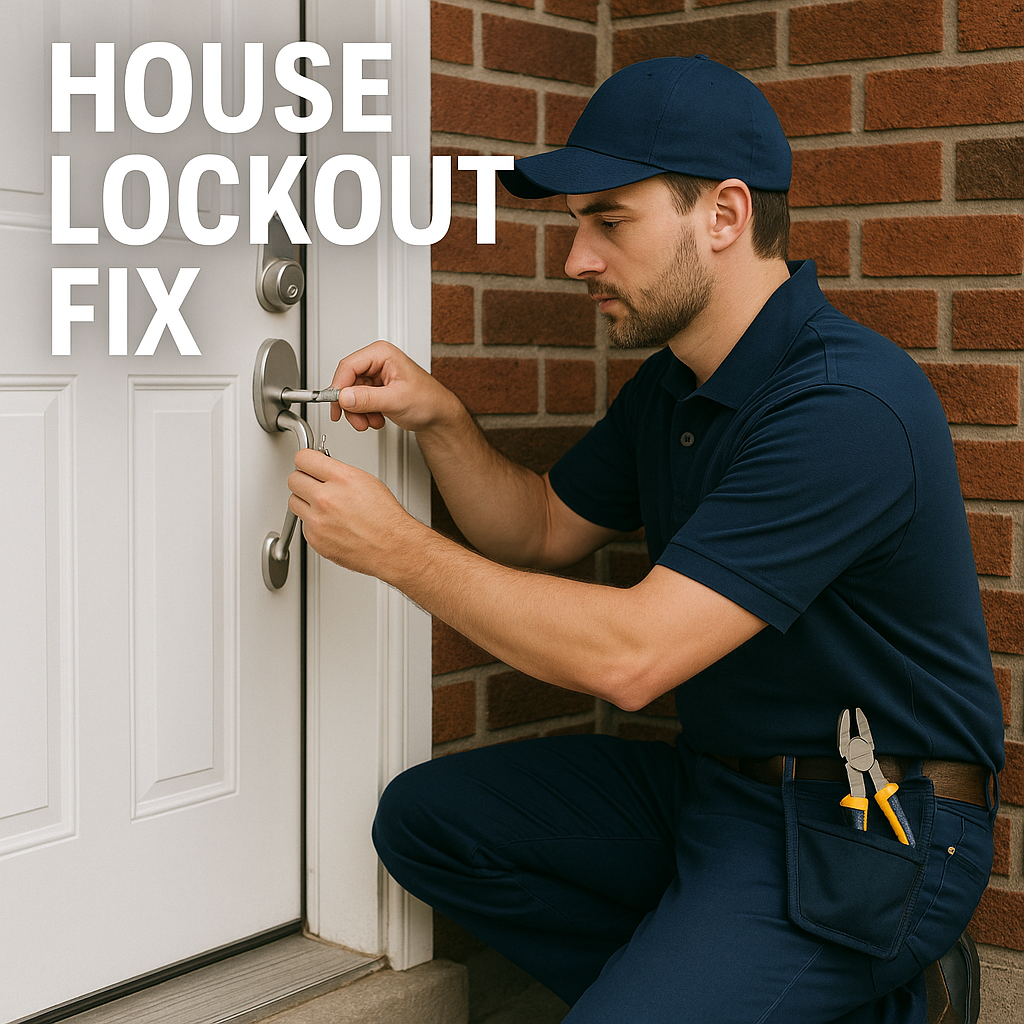
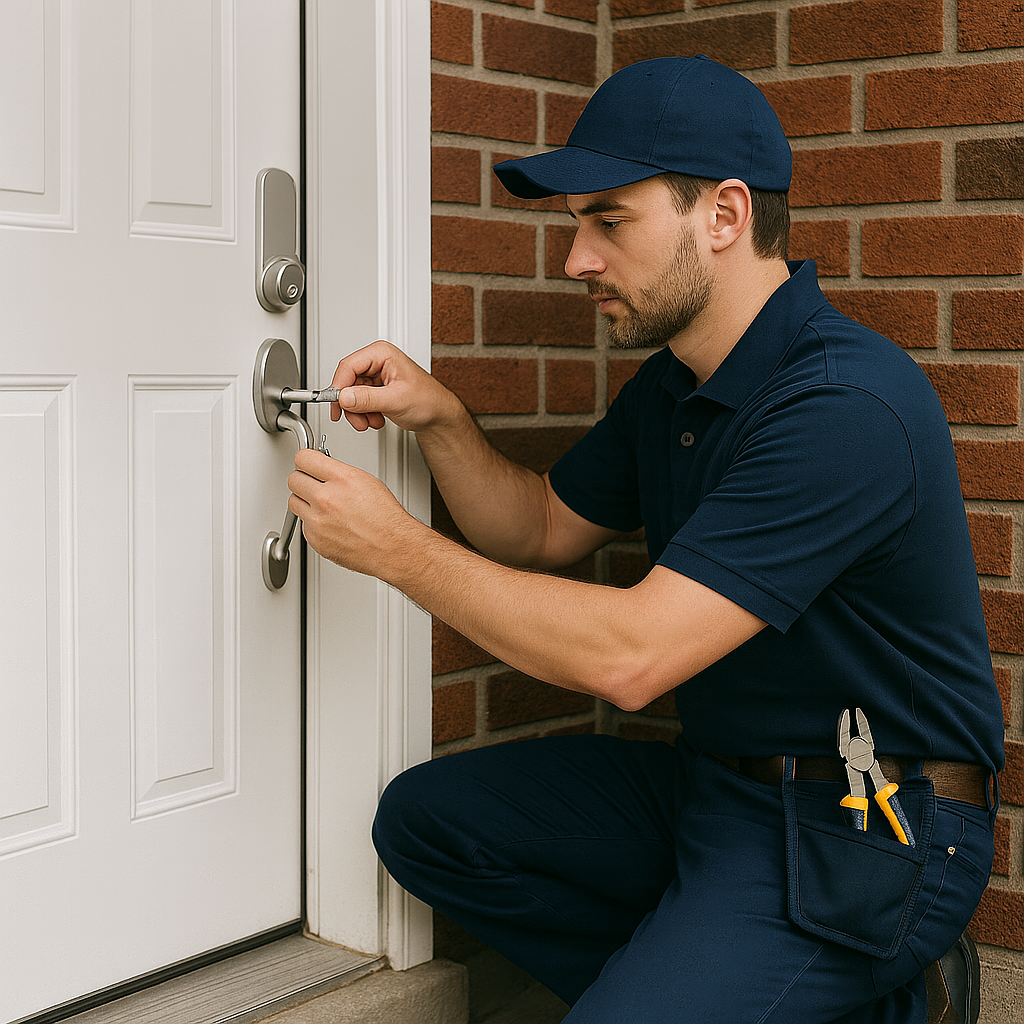
update images and styles

diff --git a/index.html b/index.html
@@ -202,23 +202,23 @@
     <h2>Our Services</h2>
     <div class="service-grid">
       <div class="service-item">
-        <img src="house-lockout.png" alt="House Lockout" style="width:100%; border-radius:6px; margin-bottom:10px;">
+        <img src="house-lockout.png" alt="House Lockout" style="width:100%; height:150px; object-fit:cover; border-radius:6px; margin-bottom:10px;">
         🔒 House Lockout
       </div>
       <div class="service-item">
-        <img src="car-lockout.png" alt="Car Lockout" style="width:100%; border-radius:6px; margin-bottom:10px;">
+        <img src="car-lockout.png" alt="Car Lockout" style="width:100%; height:150px; object-fit:cover; border-radius:6px; margin-bottom:10px;">
         🚗 Car Lockout
       </div>
       <div class="service-item">
-        <img src="lock-rekey.jpeg" alt="Lock Rekey" style="width:100%; border-radius:6px; margin-bottom:10px;">
+        <img src="lock-rekey.jpeg" alt="Lock Rekey" style="width:100%; height:150px; object-fit:cover; border-radius:6px; margin-bottom:10px;">
         🔁 Lock Rekey
       </div>
       <div class="service-item">
-        <img src="lock-installation.png" alt="Lock Installation" style="width:100%; border-radius:6px; margin-bottom:10px;">
+        <img src="lock-installation.png" alt="Lock Installation" style="width:100%; height:150px; object-fit:cover; border-radius:6px; margin-bottom:10px;">
         🛠 Lock Installation
       </div>
       <div class="service-item">
-        <img src="commercial-locks.png" alt="Commercial Locks" style="width:100%; border-radius:6px; margin-bottom:10px;">
+        <img src="commercial-locks.png" alt="Commercial Locks" style="width:100%; height:150px; object-fit:cover; border-radius:6px; margin-bottom:10px;">
         🏢 Commercial Locks
       </div>
     </div>
